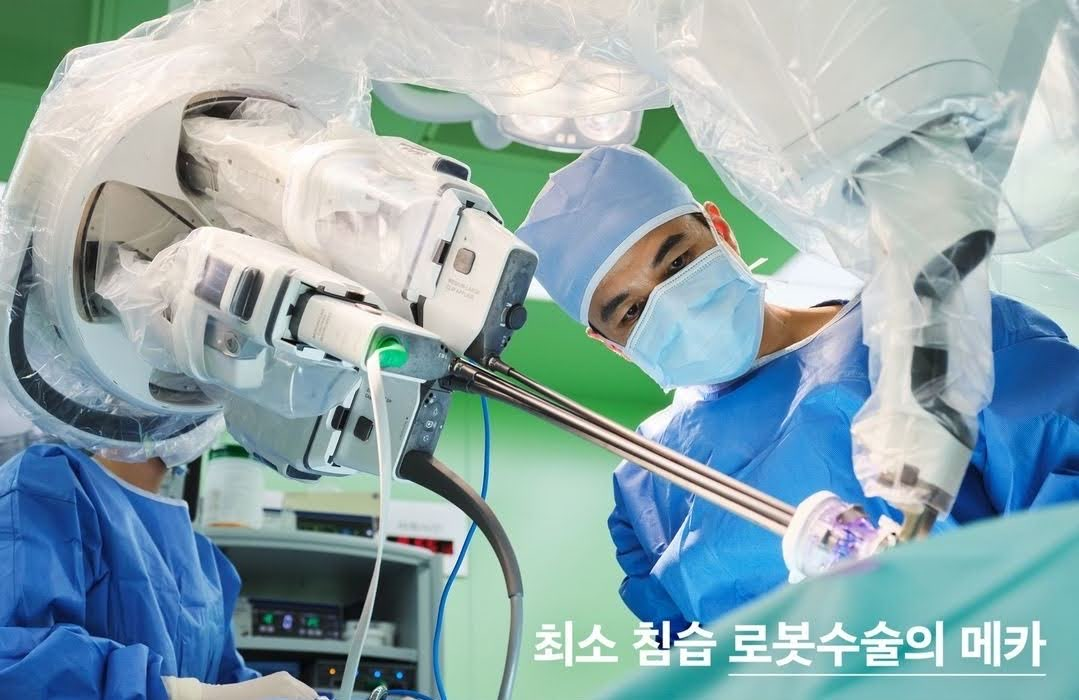
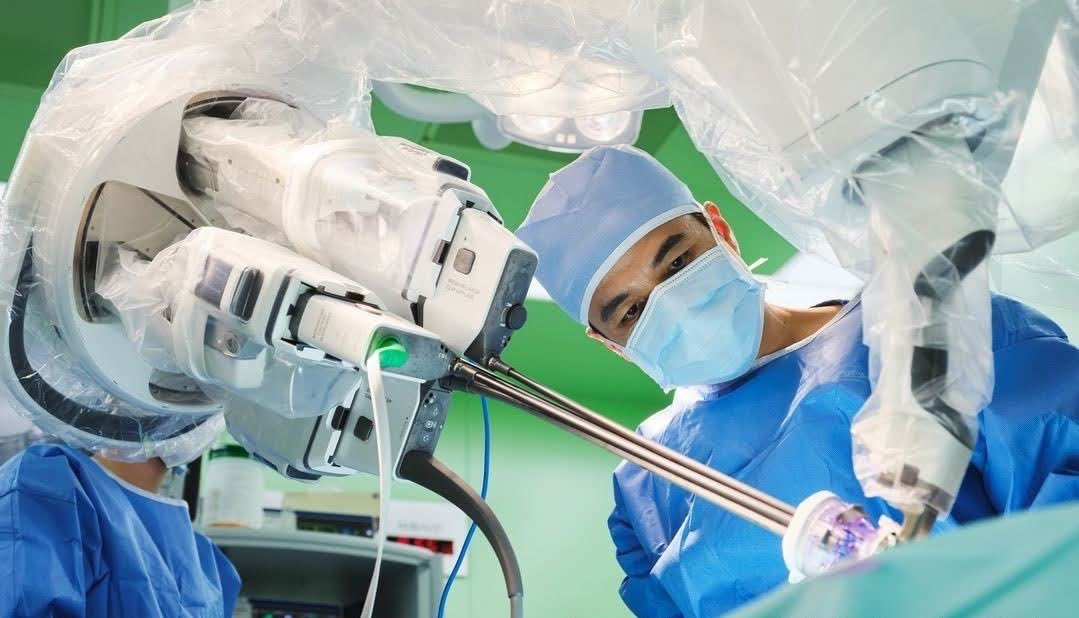
Crop the burned-in caption out of the hero operating-room photo
robotic-surgery.jpg carried the overlay text "최소 침습 로봇수술의 메카" across
its lower right (y 621-665). Cropped to 1079x618 to remove it; the
figure's own caption below the photo already carries the context.

.hero-photo img.or aspect-ratio and the width/height attributes follow
the new dimensions (1079/618) so object-fit:cover has nothing to trim
from the sides and the CLS reservation stays correct. WebP regenerated.

The organoid panel keeps its organ and Normal/Tumor labels as before.

Claude-Session: https://claude.ai/code/session_01QeFUR3xcoARhb2yx99nVQw

diff --git a/index.html b/index.html
@@ -143,7 +143,7 @@
   .btn-ghost{ background:transparent; color:var(--ink); border:1px solid var(--line) }
   .btn-ghost:hover{ background:transparent; color:var(--accent); border-color:var(--accent) }
   .hero-photo{ border:1px solid var(--line); border-radius:16px; overflow:hidden; background:var(--bg-elev) }
-  .hero-photo img.or{ width:100%; height:auto; aspect-ratio:1079/700; object-fit:cover; display:block }
+  .hero-photo img.or{ width:100%; height:auto; aspect-ratio:1079/618; object-fit:cover; display:block }
   .hero-photo .photo-cap{ padding:15px 20px; display:flex; align-items:center; gap:12px; border-top:1px solid var(--line) }
   .hero-photo .photo-cap svg{ height:34px; width:auto; color:var(--accent); flex:none }
   .hero-photo .photo-cap p{ margin:0; font-size:.85rem; color:var(--slate); line-height:1.5 }
@@ -392,7 +392,7 @@
       <div class="hero-photo">
         <picture>
           <source srcset="assets/photos/robotic-surgery.webp" type="image/webp">
-          <img class="or" src="assets/photos/robotic-surgery.jpg" width="1079" height="700" alt="Minimally invasive robotic surgery in progress at Korea University Guro Hospital" fetchpriority="high" decoding="async">
+          <img class="or" src="assets/photos/robotic-surgery.jpg" width="1079" height="618" alt="Minimally invasive robotic surgery in progress at Korea University Guro Hospital" fetchpriority="high" decoding="async">
         </picture>
         <div class="photo-cap">
           <svg viewBox="0 0 170 120" role="img" aria-label="Operation to bench loop mark"><g fill="none" stroke="currentColor" stroke-width="9" stroke-linejoin="round"><path d="M51.5 35.4 A44 44 0 0 1 124.5 35.4"/><path d="M124.5 84.6 A44 44 0 0 1 51.5 84.6"/></g><g fill="currentColor"><path d="M124.5 35.4 L111.8 28.2 L122.6 21.0 Z"/><path d="M51.5 84.6 L64.2 91.8 L53.4 99.0 Z"/></g><g fill="none" stroke="currentColor" stroke-width="9" stroke-linecap="round" stroke-linejoin="round"><circle cx="30" cy="60" r="20"/><path d="M136 30 V90"/><path d="M136 30 H142 A15 15 0 0 1 142 60 H136"/><path d="M136 60 H145 A15 15 0 0 1 145 90 H136"/></g></svg>
